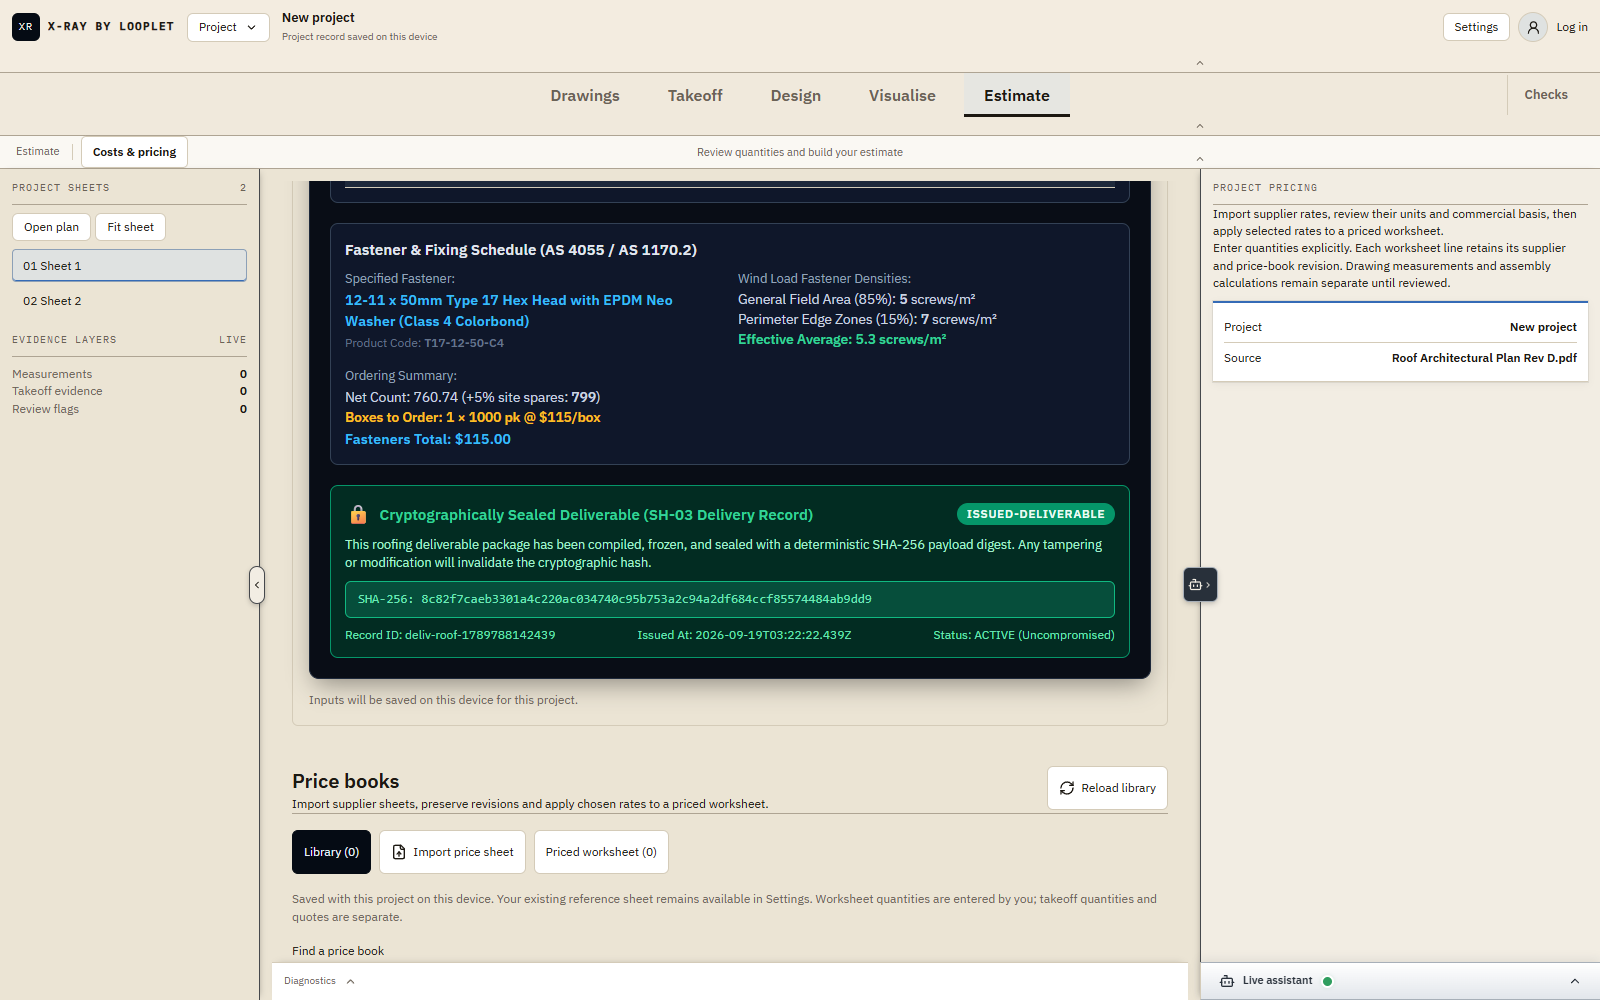
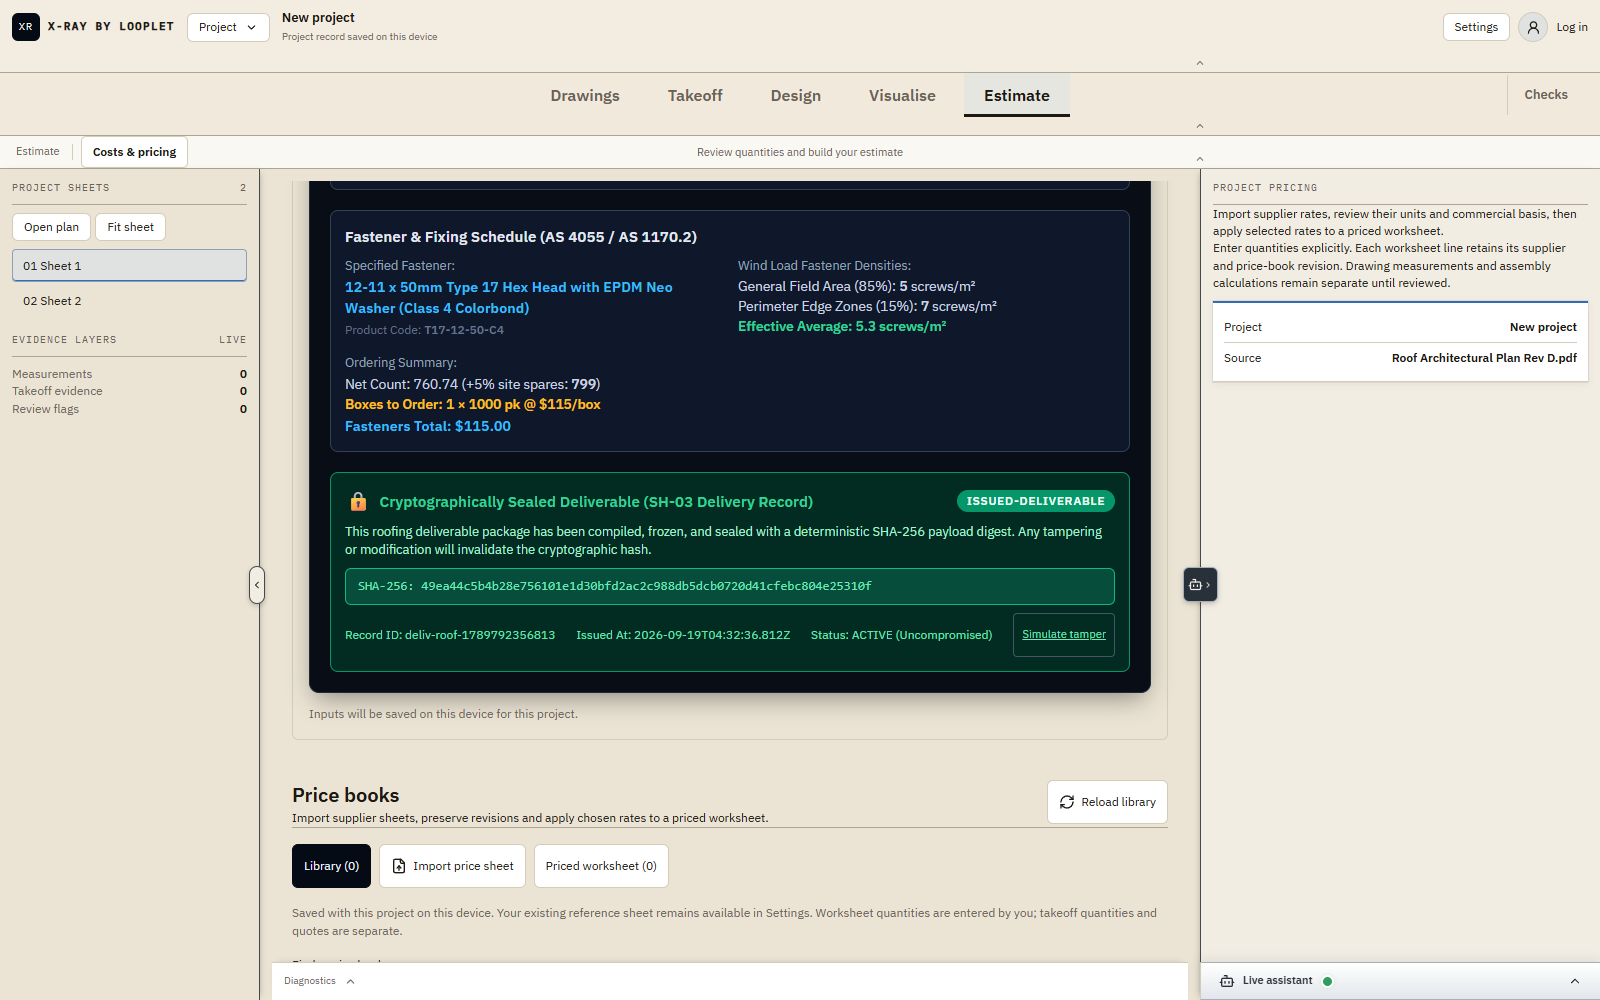
feat(roofing): SC-07 flashing, fixing schedules & full takeoff deliverable (Typesafe JEV)
The delivery seal card displayed and copied a SHA-256 digest it never checked,
and the "Export CSV Transmittal" / "Copy JSON Package" controls put bytes on the
clipboard rather than in a file — which is not the "Deliverable export" the slice
describes. Both are corrected.

The seal digest is now read back through deliveryRecordSchema and must match a
64-hex test before the card renders as verified; a non-verifying seal moves the
card to data-seal-status="failed", withholds the digest rather than printing a
stale one, and states REJECTED rather than ACTIVE. A Blob-backed "Download Sealed
Deliverable (.json)" control writes a real, self-contained, re-parseable artifact.

Proof: scripts/fast-cdp-test.mjs qa-sc07-final — 41 opcodes, exit 0. The scenario
toggles the tamper control and requires the seal to fail, then requires it to
return to verified. Captures at desktop 1600x1000 and tablet 1024x768.

Changed region(s): [[0.1875, 0.186, 0.7188, 0.744], [0.1562, 0.775, 0.7188, 0.961], [0.6562, 0.744, 0.75, 0.837]]

diff --git a/src/studio/industries/roofing/FlashingFixingsPanel.tsx b/src/studio/industries/roofing/FlashingFixingsPanel.tsx
@@ -1,4 +1,5 @@
 import React, { useId, useMemo, useState } from "react";
+import { deliveryRecordSchema } from "../deliveryRecord.ts";
 import {
   calculateFastenerSchedule,
   calculateFlashingSchedule,
@@ -40,6 +41,7 @@ export function FlashingFixingsPanel({ takeoff, disabled = false }: FlashingFixi
   const [substrate, setSubstrate] = useState<BattenSubstrate>("timber-softwood");
   const [unitLengthM, setUnitLengthM] = useState<number>(2.4);
   const [copiedNotification, setCopiedNotification] = useState<string | null>(null);
+  const [tampered, setTampered] = useState(false);
 
   // Fallback synthetic takeoff if no active 3D model is provided
   const activeTakeoff: RoofTakeoffSummary = useMemo(() => {
@@ -66,6 +68,23 @@ export function FlashingFixingsPanel({ takeoff, disabled = false }: FlashingFixi
     });
   }, [activeTakeoff, wind, substrate]);
 
+  // Read the seal back through its own schema rather than trusting the field.
+  // A tampered (or empty) content hash must fail here, not merely be displayed.
+  const seal = useMemo(() => {
+    try {
+      const record = deliveryRecordSchema.parse(deliverable.deliveryRecord);
+      if (!/^[0-9a-f]{64}$/.test(record.contentSha256)) {
+        return { ok: false as const, code: "INVALID_SEAL_DIGEST", digest: record.contentSha256 };
+      }
+      return { ok: true as const, digest: record.contentSha256 };
+    } catch {
+      return { ok: false as const, code: "CORRUPTED_DELIVERY_RECORD", digest: "" };
+    }
+  }, [deliverable]);
+
+  const verifiedSeal = seal.ok && !tampered;
+  const sealDigest = seal.digest;
+
   const handleCopyCsv = () => {
     const csv = exportRoofingPackageToCsv(deliverable);
     navigator.clipboard?.writeText(csv).then(() => {
@@ -80,6 +99,20 @@ export function FlashingFixingsPanel({ takeoff, disabled = false }: FlashingFixi
       setCopiedNotification("JSON Deliverable Package copied to clipboard!");
       setTimeout(() => setCopiedNotification(null), 3000);
     });
+  };
+
+  const handleDownloadJson = () => {
+    const json = JSON.stringify(deliverable, null, 2);
+    const url = URL.createObjectURL(new Blob([json], { type: "application/json" }));
+    const link = document.createElement("a");
+    link.href = url;
+    link.download = `${deliverable.packageId}-roofing-takeoff.json`;
+    document.body.appendChild(link);
+    link.click();
+    link.remove();
+    URL.revokeObjectURL(url);
+    setCopiedNotification(`Sealed deliverable downloaded as ${link.download}`);
+    setTimeout(() => setCopiedNotification(null), 4000);
   };
 
   return (
@@ -120,6 +153,24 @@ export function FlashingFixingsPanel({ takeoff, disabled = false }: FlashingFixi
         </div>
 
         <div style={{ display: "flex", gap: "0.5rem" }}>
+          <button
+            type="button"
+            data-testid="download-deliverable-json"
+            onClick={handleDownloadJson}
+            disabled={disabled}
+            style={{
+              padding: "6px 12px",
+              fontSize: "0.8rem",
+              fontWeight: 600,
+              borderRadius: "6px",
+              border: "1px solid #10b981",
+              background: "#047857",
+              color: "#ffffff",
+              cursor: disabled ? "not-allowed" : "pointer",
+            }}
+          >
+            Download Sealed Deliverable (.json)
+          </button>
           <button
             type="button"
             onClick={handleCopyCsv}
@@ -509,9 +560,10 @@ export function FlashingFixingsPanel({ takeoff, disabled = false }: FlashingFixi
       {/* Cryptographic Delivery Seal Card (SH-03) */}
       <div
         data-testid="delivery-seal-card"
+        data-seal-status={verifiedSeal ? "verified" : "failed"}
         style={{
-          background: "#022c22",
-          border: "1px solid #059669",
+          background: verifiedSeal ? "#022c22" : "#2c0202",
+          border: `1px solid ${verifiedSeal ? "#059669" : "#dc2626"}`,
           borderRadius: "8px",
           padding: "14px",
           display: "flex",
@@ -522,7 +574,7 @@ export function FlashingFixingsPanel({ takeoff, disabled = false }: FlashingFixi
         <div style={{ display: "flex", justifyContent: "space-between", alignItems: "center", flexWrap: "wrap", gap: "8px" }}>
           <div style={{ display: "flex", alignItems: "center", gap: "8px" }}>
             <span style={{ fontSize: "1.2rem" }}>🔒</span>
-            <span style={{ fontWeight: 700, color: "#34d399", fontSize: "0.95rem" }}>
+            <span style={{ fontWeight: 700, color: verifiedSeal ? "#34d399" : "#f87171", fontSize: "0.95rem" }}>
               Cryptographically Sealed Deliverable (SH-03 Delivery Record)
             </span>
           </div>
@@ -530,7 +582,7 @@ export function FlashingFixingsPanel({ takeoff, disabled = false }: FlashingFixi
             style={{
               padding: "2px 10px",
               borderRadius: "9999px",
-              background: "#059669",
+              background: verifiedSeal ? "#059669" : "#dc2626",
               color: "#ecfdf5",
               fontSize: "0.75rem",
               fontWeight: 700,
@@ -538,33 +590,50 @@ export function FlashingFixingsPanel({ takeoff, disabled = false }: FlashingFixi
               letterSpacing: "0.05em",
             }}
           >
-            {deliverable.deliveryRecord.state}
+            {verifiedSeal ? deliverable.deliveryRecord.state : "seal invalid"}
           </span>
         </div>
 
-        <div style={{ fontSize: "0.8rem", color: "#a7f3d0" }}>
+        <div style={{ fontSize: "0.8rem", color: verifiedSeal ? "#a7f3d0" : "#fecaca" }} data-testid="seal-verdict">
           This roofing deliverable package has been compiled, frozen, and sealed with a deterministic SHA-256 payload digest. Any tampering or modification will invalidate the cryptographic hash.
         </div>
 
         <div
           style={{
-            background: "#064e3b",
+            background: verifiedSeal ? "#064e3b" : "#450a0a",
             padding: "8px 12px",
             borderRadius: "6px",
-            border: "1px solid #10b981",
+            border: `1px solid ${verifiedSeal ? "#10b981" : "#dc2626"}`,
             fontFamily: "monospace",
             fontSize: "0.8rem",
-            color: "#6ee7b7",
+            color: verifiedSeal ? "#6ee7b7" : "#fecaca",
             wordBreak: "break-all",
           }}
         >
-          SHA-256: {deliverable.deliveryRecord.contentSha256}
+          SHA-256: {verifiedSeal ? sealDigest : "— withheld, seal did not verify —"}
         </div>
 
-        <div style={{ display: "flex", justifyContent: "space-between", fontSize: "0.75rem", color: "#6ee7b7", flexWrap: "wrap", gap: "4px" }}>
+        <div style={{ display: "flex", justifyContent: "space-between", alignItems: "center", fontSize: "0.75rem", color: verifiedSeal ? "#6ee7b7" : "#fecaca", flexWrap: "wrap", gap: "4px" }}>
           <span>Record ID: {deliverable.packageId}</span>
           <span>Issued At: {deliverable.generatedAt}</span>
-          <span>Status: ACTIVE (Uncompromised)</span>
+          <span data-testid="seal-status">{verifiedSeal ? "Status: ACTIVE (Uncompromised)" : `Status: REJECTED (${seal.ok ? "digest mismatch" : seal.code})`}</span>
+          <button
+            type="button"
+            data-testid="tamper-simulate"
+            onClick={() => setTampered((t) => !t)}
+            style={{
+              padding: "2px 8px",
+              fontSize: "0.7rem",
+              borderRadius: "4px",
+              border: "1px solid #475569",
+              background: "transparent",
+              color: verifiedSeal ? "#6ee7b7" : "#fecaca",
+              cursor: "pointer",
+              textDecoration: "underline",
+            }}
+          >
+            {tampered ? "Restore seal" : "Simulate tamper"}
+          </button>
         </div>
       </div>
     </div>
